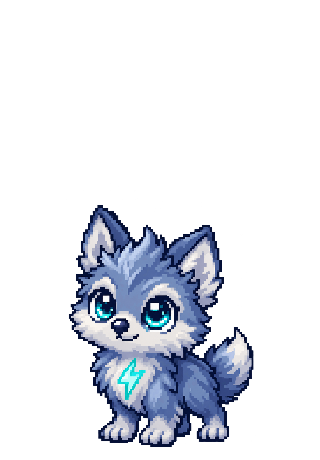
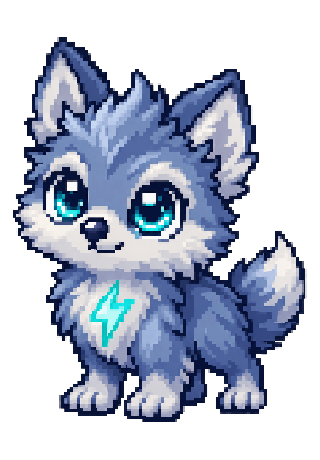
Renomeia linhas para Gust/Roam, adiciona linha Tide e ajusta tamanho dos filhotes

diff --git a/prisma/seed.ts b/prisma/seed.ts
@@ -21,10 +21,10 @@ async function seedConfig() {
 
 async function seedPetSpecies() {
   const species = await prisma.petSpecies.upsert({
-    where: { name: "Movinho" },
+    where: { name: "Gust" },
     update: {},
     create: {
-      name: "Movinho",
+      name: "Gust",
       description: "A espécie padrão de pet do MoveGO — cresce a cada culto e evento em que o jovem participa.",
     },
   });
@@ -45,13 +45,13 @@ async function seedPetSpecies() {
       create: { speciesId: species.id, ...evo },
     });
   }
-  console.log(`✓ PetSpecies "Movinho" com ${evolutions.length} evoluções seedadas`);
+  console.log(`✓ PetSpecies "Gust" com ${evolutions.length} evoluções seedadas`);
 
   // Segunda linha: o ovo (nível 1) é compartilhado, então o Lobo começa no nível 2.
   const wolf = await prisma.petSpecies.upsert({
-    where: { name: "Lobo" },
+    where: { name: "Roam" },
     update: {},
-    create: { name: "Lobo", description: "Um lobo amigável que cresce a cada culto e evento." },
+    create: { name: "Roam", description: "Um lobo amigável que cresce a cada culto e evento." },
   });
   const wolfEvolutions = [
     { levelRequired: 2, name: "Rise", sprite: "wolf_rise" },
@@ -66,7 +66,27 @@ async function seedPetSpecies() {
       create: { speciesId: wolf.id, ...evo },
     });
   }
-  console.log(`✓ PetSpecies "Lobo" com ${wolfEvolutions.length} evoluções seedadas`);
+  console.log(`✓ PetSpecies "Roam" com ${wolfEvolutions.length} evoluções seedadas`);
+
+  const tide = await prisma.petSpecies.upsert({
+    where: { name: "Tide" },
+    update: {},
+    create: { name: "Tide", description: "Uma tartaruga marinha amigável que cresce a cada culto e evento." },
+  });
+  const tideEvolutions = [
+    { levelRequired: 2, name: "Rise", sprite: "tide_rise" },
+    { levelRequired: 5, name: "Surge", sprite: "tide_surge" },
+    { levelRequired: 10, name: "Ascend", sprite: "tide_ascend" },
+    { levelRequired: 20, name: "Apex", sprite: "tide_apex" },
+  ];
+  for (const evo of tideEvolutions) {
+    await prisma.petEvolution.upsert({
+      where: { speciesId_levelRequired: { speciesId: tide.id, levelRequired: evo.levelRequired } },
+      update: { name: evo.name, sprite: evo.sprite },
+      create: { speciesId: tide.id, ...evo },
+    });
+  }
+  console.log(`✓ PetSpecies "Tide" com ${tideEvolutions.length} evoluções seedadas`);
   return species;
 }
 

diff --git a/src/components/pet/PetSprite.tsx b/src/components/pet/PetSprite.tsx
@@ -15,6 +15,10 @@ const SPRITE_IMAGES: Record<string, string> = {
   wolf_surge: "/pet/wolf-surge.png",
   wolf_ascend: "/pet/wolf-ascend.png",
   wolf_apex: "/pet/wolf-apex.png",
+  tide_rise: "/pet/tide-rise.png",
+  tide_surge: "/pet/tide-surge.png",
+  tide_ascend: "/pet/tide-ascend.png",
+  tide_apex: "/pet/tide-apex.png",
 };
 
 /**
@@ -58,7 +62,7 @@ export function PetSprite({
   const frameSize = size === "lg" ? "h-48 w-48" : "h-24 w-24";
   // Apex ganha mais destaque: preenche a moldura inteira, as outras fases sobram uma margem.
   const artSize =
-    spriteKey === "special" || spriteKey === "wolf_apex"
+    spriteKey === "special" || spriteKey === "wolf_apex" || spriteKey === "tide_apex"
       ? size === "lg"
         ? "h-48 w-48"
         : "h-24 w-24"

diff --git a/src/components/pet/PetNameForm.tsx b/src/components/pet/PetNameForm.tsx
@@ -24,7 +24,7 @@ export function PetNameForm({ lines }: { lines: SelectableLine[] }) {
       <form action={formAction} className="mt-3 flex flex-col gap-3">
         <input type="hidden" name="speciesId" value={selectedId} />
 
-        <div className="flex justify-center gap-3">
+        <div className="flex flex-wrap justify-center gap-2">
           {lines.map((line) => {
             const selected = line.speciesId === selectedId;
             return (

diff --git a/src/server/repositories/pet.repository.ts b/src/server/repositories/pet.repository.ts
@@ -47,5 +47,9 @@ export function listSpecies(client: Client = prisma) {
 }
 
 export function findDefaultSpecies(client: Client = prisma) {
-  return client.petSpecies.findFirst({ orderBy: { createdAt: "asc" } });
+  // A espécie padrão é a dona do ovo (nível 1) — as demais linhas só começam depois dele.
+  return client.petSpecies.findFirst({
+    where: { evolutions: { some: { levelRequired: 1 } } },
+    orderBy: { createdAt: "asc" },
+  });
 }

diff --git a/README.md b/README.md
@@ -93,7 +93,7 @@ npm run start
 O `prisma/seed.ts` cria:
 
 - 1 usuário admin (`admin@movesantana.com` / `movepet123` — **troque em produção**)
-- 1 espécie de pet ("Movinho") com 5 estágios de evolução (Spark → Rise → Surge → Ascend → Apex)
+- 1 linhas de pet ("Gust", "Roam" e "Tide"; ovo compartilhado) com 5 estágios de evolução (Spark → Rise → Surge → Ascend → Apex)
 - 4 itens de inventário (incluindo o item especial "Fone Adora")
 - 6 conquistas
 - 3 eventos de exemplo, cada um com um QR Code de teste (`/checkin/<token>`) — os tokens são impressos no console ao rodar `npx prisma db seed`
